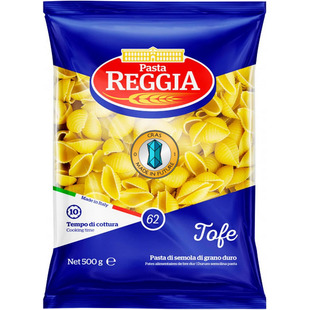
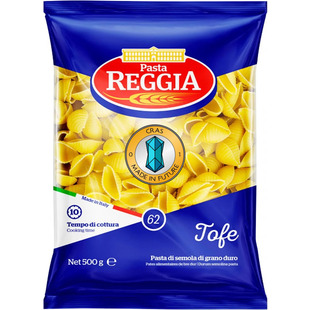
Added Pasta Reggia Tofe 62

diff --git a/js/food/array-macaroni.js b/js/food/array-macaroni.js
@@ -680,8 +680,20 @@ export const shopLotsMacaroni = [
         type: "retail",
         url: "./images/shop/food/pasta/macaroni/pasta_reggia_tofe_500.jpg",
         alt: "pasta_reggia_tofe_500",
-        url1: "./images/shop/food/pasta/macaroni/pasta_reggia_tofe_500.jpg",
-        alt1: "pasta_reggia_tofe_500",
+        url1: "./images/shop/food/pasta/macaroni/pasta_reggia_tofe_500-01.jpg",
+        alt1: "pasta_reggia_tofe_500-01",
+        url2: "./images/shop/food/pasta/macaroni/pasta_reggia_tofe_500-02.jpg",
+        alt2: "pasta_reggia_tofe_500-02",
+        url3: "./images/shop/food/pasta/macaroni/pasta_reggia_tofe_500-03.jpg",
+        alt3: "pasta_reggia_tofe_500-03",
+        url4: "./images/shop/food/pasta/macaroni/pasta_reggia_tofe_500-04.jpg",
+        alt4: "pasta_reggia_tofe_500-04",
+        url5: "./images/shop/food/pasta/macaroni/pasta_reggia_tofe_500-05.jpg",
+        alt5: "pasta_reggia_tofe_500-05",
+        url6: "./images/shop/food/pasta/macaroni/pasta_reggia_tofe_500-06.jpg",
+        alt6: "pasta_reggia_tofe_500-06",
+        url7: "./images/shop/food/pasta/macaroni/pasta_reggia_tofe_500-07.jpg",
+        alt7: "pasta_reggia_tofe_500-07",
         marker: "FDMI550",
         brand: "Pasta Reggia",
         search: "паста реггіа регіа реггія регія реггиа региа реггия регия макароны ракушка ракушки твердый твердий сорт тверді сорта твердые сорта с твердых сортов",
